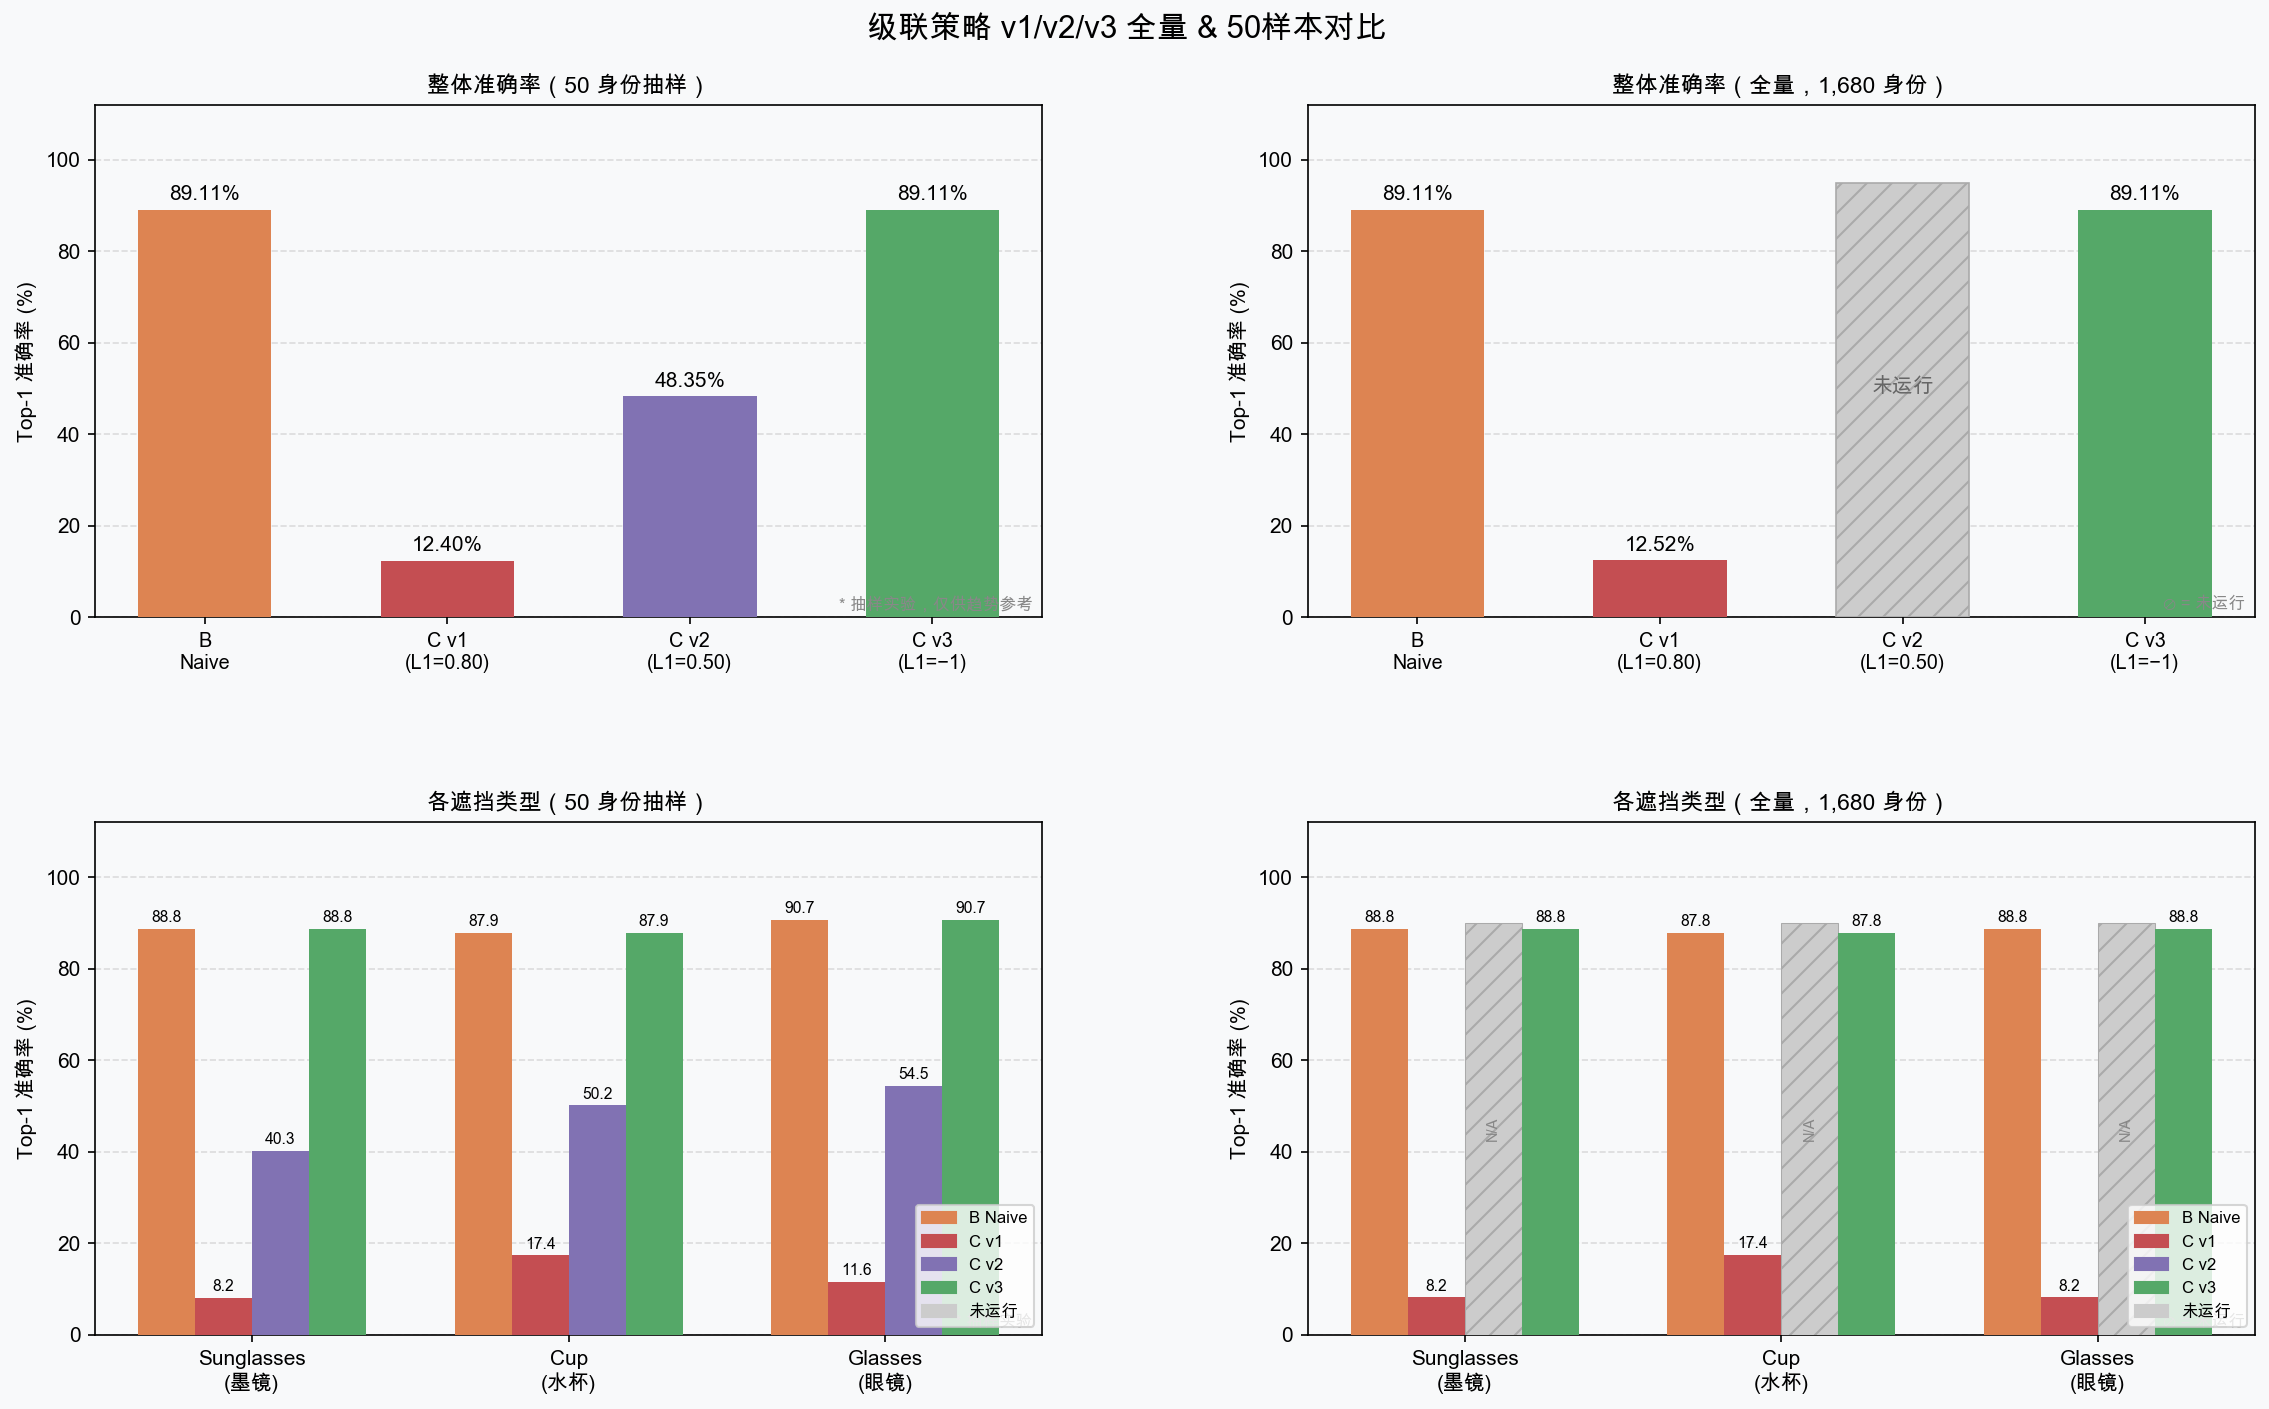
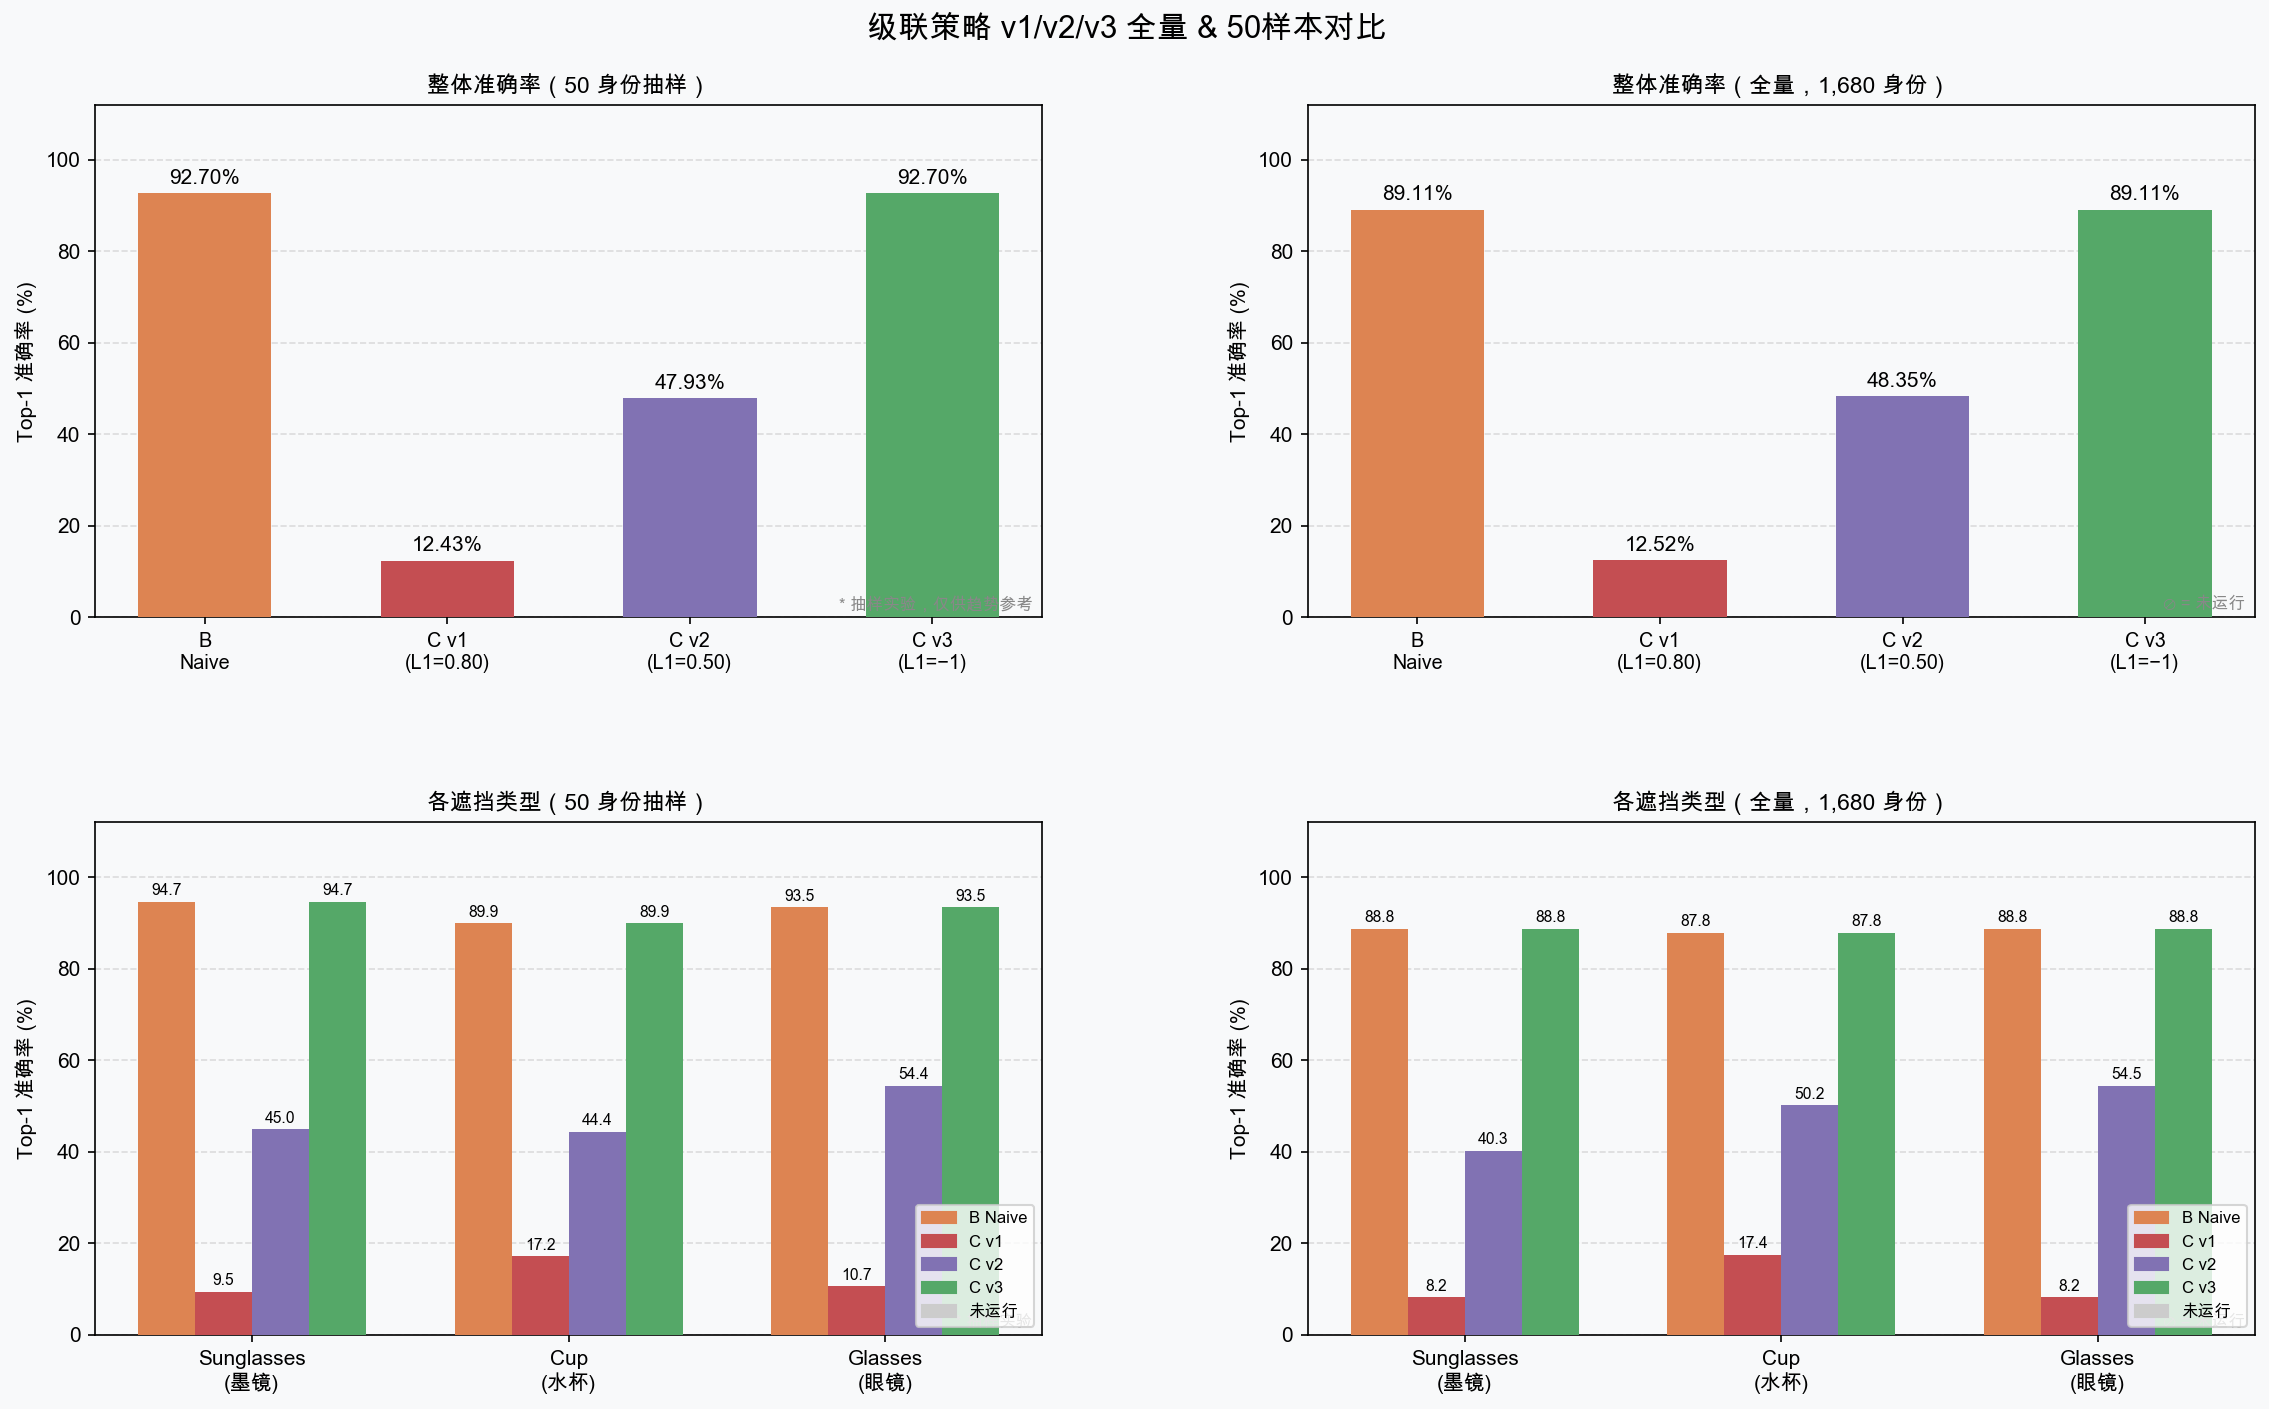
docs(report): fill in C v2 full-run results (48.35%) and fix data sources
- defense.md: replace '—' with 48.35% for C v2 full-run overall accuracy;
  update per-type table and quick-reference section
- report.md: add C v2 row (48.35%) to §8.2 accuracy table; fix data-source
  footnotes to reference backup file for 50-sample ablation panel
- plot_cascade_compare.py: load 50-sample ablation from backup file
  (primary file overwritten by full run); parse v2 full-run data directly
  from eval_cascade_v123_50s.txt; populate full_overall/full_per for v2
- docs/figures: regenerate plot_cascade_fullvs50s.png with v2 full data

diff --git a/scripts/plot_cascade_compare.py b/scripts/plot_cascade_compare.py
@@ -42,7 +42,11 @@ OCC_LABELS = ["Sunglasses\n(墨镜)", "Cup\n(水杯)", "Glasses\n(眼镜)"]
 # ── load 50-sample from eval_cascade_v123_50s.txt ─────────────────────────────────
 def load_ablation() -> dict:
     """Returns {key: {all, sunglasses, cup, glasses}} for B/v1/v2/v3."""
-    txt = (RESULTS_DIR / "eval_cascade_v123_50s.txt").read_text()
+    # Use backup file (original 50-sample results); the primary file was overwritten by full-run
+    ablation_file = RESULTS_DIR / "eval_cascade_v123_50s_backup.txt"
+    if not ablation_file.exists():
+        ablation_file = RESULTS_DIR / "eval_cascade_v123_50s.txt"
+    txt = ablation_file.read_text()
     data = {}
     key_map = {
         "B Naive": "B",
@@ -84,6 +88,26 @@ def main():
 
     full_v1 = load_full(RESULTS_DIR / "eval_compare_v1_full.txt")
     full_v3 = load_full(RESULTS_DIR / "eval_compare_v3_full.txt")
+
+    # Load v2 full-run data from eval_cascade_v123_50s.txt (overwritten by full run)
+    full_v2 = None
+    full_abl_file = RESULTS_DIR / "eval_cascade_v123_50s.txt"
+    if full_abl_file.exists():
+        full_abl_txt = full_abl_file.read_text()
+        key_map_full = {
+            "C v2 (L1_HIGH=0.50, best-of-two)": "v2",
+        }
+        for line in full_abl_txt.splitlines():
+            for raw, key in key_map_full.items():
+                if raw in line:
+                    nums = re.findall(r"(\d+\.\d+)%", line)
+                    if len(nums) >= 4:
+                        full_v2 = {
+                            "all": float(nums[0]) / 100,
+                            "sunglasses": float(nums[1]) / 100,
+                            "cup": float(nums[2]) / 100,
+                            "glasses": float(nums[3]) / 100,
+                        }
 
     # Also load B full-run per-type from v3 file (B col)
     txt_v3 = (RESULTS_DIR / "eval_compare_v3_full.txt").read_text()
@@ -143,7 +167,7 @@ def main():
     full_overall = {
         "B": full_B["all"] * 100 if "all" in full_B else None,
         "v1": full_v1.get("all") * 100 if full_v1.get("all") else None,
-        "v2": None,   # not run
+        "v2": full_v2["all"] * 100 if full_v2 and full_v2.get("all") else None,
         "v3": full_v3.get("all") * 100 if full_v3.get("all") else None,
     }
     vals_full = [full_overall[k] for k in keys]
@@ -197,7 +221,7 @@ def main():
     full_per = {
         "B": {occ: full_B.get(occ) for occ in OCC_TYPES},
         "v1": {occ: full_v1.get(occ) for occ in OCC_TYPES},
-        "v2": {occ: None for occ in OCC_TYPES},
+        "v2": {occ: (full_v2.get(occ) if full_v2 else None) for occ in OCC_TYPES},
         "v3": {occ: full_v3.get(occ) for occ in OCC_TYPES},
     }
     grouped_bar(ax_bot_r, full_per, "各遮挡类型（全量，1,680 身份）", "⊘ = 未运行")

diff --git a/docs/report.md b/docs/report.md
@@ -605,7 +605,7 @@ L1 全脸特征 → cosine_top1(gallery)
 | **C v2** (L1_HIGH=0.50, best-of-two) | **47.93%** | 44.97% | 44.38% | 54.44% |
 | **C v3** (L1_HIGH=−1, 禁用L2) | **92.70%** | 94.67% | 89.94% | 93.49% |
 
-> 数据来源：`data/results/eval_cascade_v123_50s.txt`（`make eval-cascade` 50 样本）
+> 数据来源：`data/results/eval_cascade_v123_50s_backup.txt`（50 样本消融实验；当前 `eval_cascade_v123_50s.txt` 已被全量运行结果覆盖，备份保留原 50 样本数据）
 
 ### 7.5 失败原因分析：为什么 C=12.52%？
 
@@ -763,7 +763,7 @@ pred = cosine_top1(emb, gallery)   # 与 B Naive 完全一致
 | **C v2** (L1=0.50) | 47.93% | **48.35%** | ✅ 已完成 | 全量耗时 ~100–130 min |
 | **C v3** (L1=−1) | 92.70% | **89.11%** | ✅ 已完成 | = B，最优策略 |
 
-> 数据来源：50 样本列 → `data/results/eval_cascade_v123_50s.txt`；全量 v1 → `data/results/eval_compare_v1_full.txt`；全量 v3 → `data/results/eval_compare_v3_full.txt`
+> 数据来源：50 样本列 → `data/results/eval_cascade_v123_50s_backup.txt`（原 50 样本消融结果）；全量 v1 → `data/results/eval_compare_v1_full.txt`；全量 v2/v3 → `data/results/eval_cascade_v123_50s.txt`（已全量运行覆盖）/ `data/results/eval_compare_v3_full.txt`
 
 ### 各遮挡类型全量细分
 
@@ -774,9 +774,7 @@ pred = cosine_top1(emb, gallery)   # 与 B Naive 完全一致
 | glasses | 90.69% | **11.89%** | 54.52% | **90.69%** |
 | **整体** | **89.11%** | **12.52%** | **48.35%** | **89.11%** |
 
-> 数据来源：v1 全量 → `data/results/eval_compare_v1_full.txt`；v2 全量 → `data/results/eval_cascade_v123_50s.txt`（已运行）；v3 全量 → `data/results/eval_compare_v3_full.txt`
-
-> 说明：已完成 v2 全量评估（1680 身份，写入 `data/results/eval_cascade_v123_50s.txt`），C v2 全量总体准确率 = 48.35%，各遮挡类型详见上表。
+> 数据来源：v1 全量 → `data/results/eval_compare_v1_full.txt`；v2 全量 → `data/results/eval_cascade_v123_50s.txt`（全量运行已完成，1,680 身份，覆盖原 50 样本文件）；v3 全量 → `data/results/eval_compare_v3_full.txt`
 
 ---
 
@@ -802,6 +800,7 @@ pred = cosine_top1(emb, gallery)   # 与 B Naive 完全一致
 | 干净图像（全量） | ArcFace 全脸 | **92.65%** | 基线 |
 | 遮挡图像（全量） | ArcFace 全脸（Naive） | **89.11%** | Δ = -3.54pp |
 | 遮挡图像（全量） | 级联 v1（L1_HIGH=0.8） | **12.52%** | 阈值错误 |
+| 遮挡图像（全量） | 级联 v2（L1_HIGH=0.5） | **48.35%** | best-of-two，仍低于B |
 | 遮挡图像（全量） | 级联 v3（L1_HIGH=-1） | **89.11%** | = B，最优 ✅ |
 
 > 数据来源：基线 → `data/results/eval_baseline_full.txt`；v1/v3 全量 → `eval_compare_v1_full.txt` / `eval_compare_v3_full.txt`
@@ -854,6 +853,6 @@ L1_HIGH 从 0.8 降到 -1，C 准确率从 12.52% 提升至 89.11%。**阈值选
 
 ---
 
-*报告生成时间：2026-05-14，最后更新：2026-06-08*  
+*报告生成时间：2026-05-14，最后更新：2026-06-11*  
 *当前项目版本：0.1.0*  
-*eval-compare v3 全量运行已完成（2026-05-14，历时约 97 min）*
+*eval-compare v3 全量运行已完成（2026-05-14，历时约 97 min）；eval-compare v2 全量已完成（写入 eval_cascade_v123_50s.txt）*
